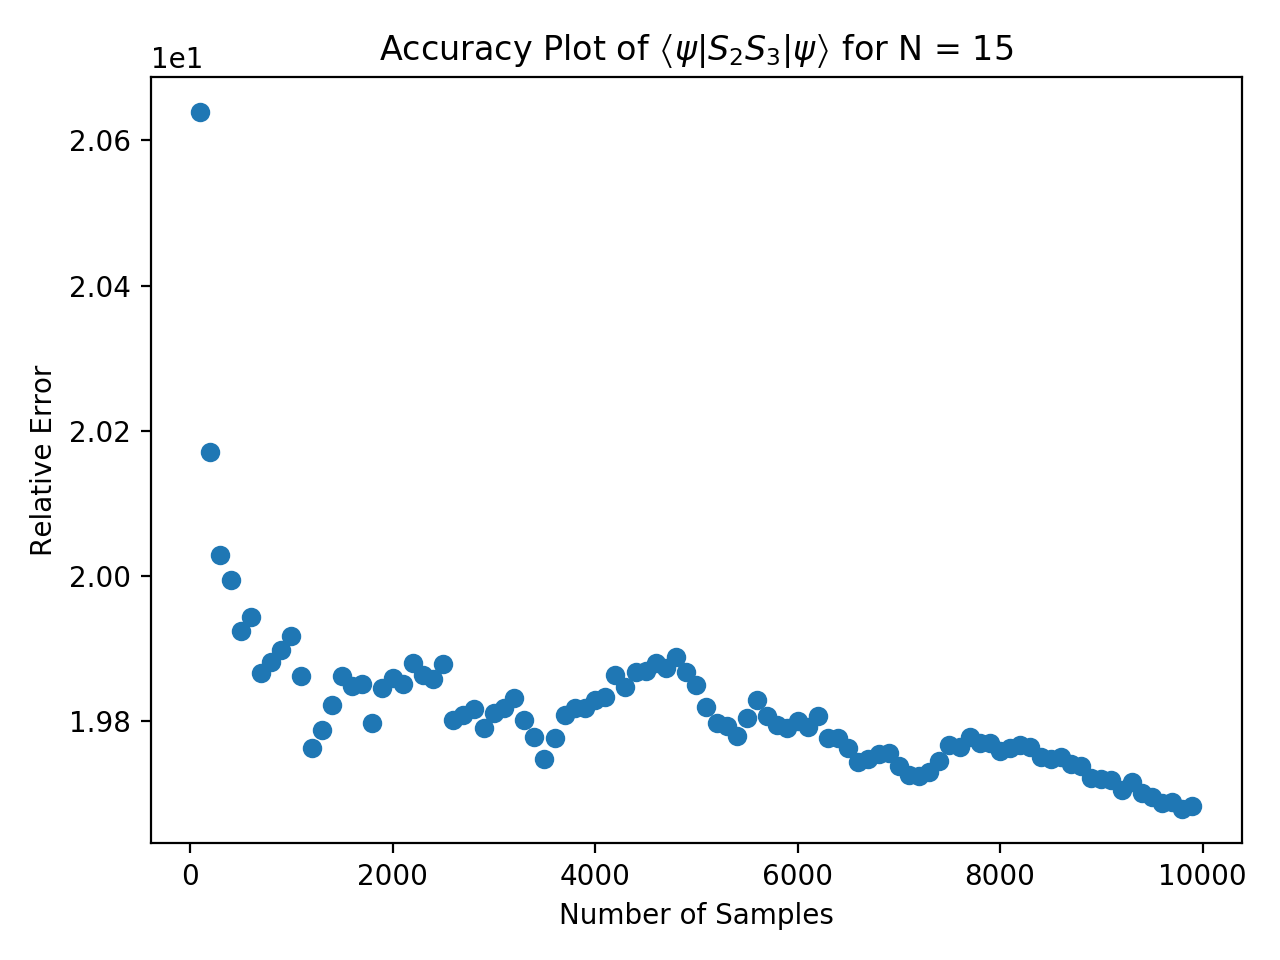
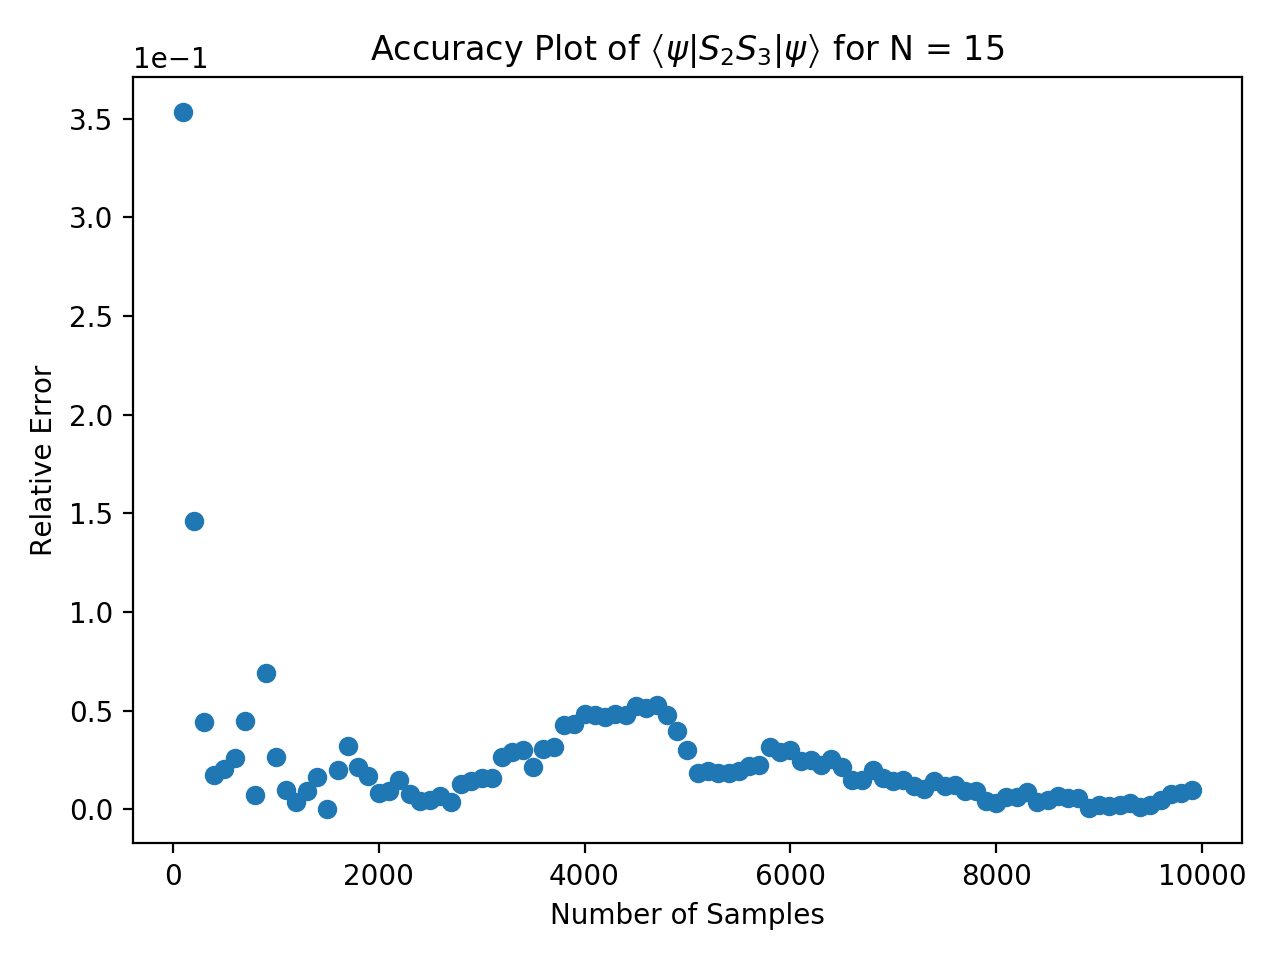
Fixed S2S3 Issue

diff --git a/OperatorCheck.py b/OperatorCheck.py
@@ -122,7 +122,7 @@ def operatorCheck(operator,listofMs,numQubits,textBox = False):
     values = []
     for i in range(len(samples)):
         if operator == "S2S3":
-            total += convert("SzSz",samples[i],amplitudes)
+            total += convert("S2S3",samples[i],amplitudes)
         elif operator == "H":
             total += convert("SzSz",samples[i],amplitudes)
             total += 0.5 * convert("S+S-",samples[i],amplitudes)
